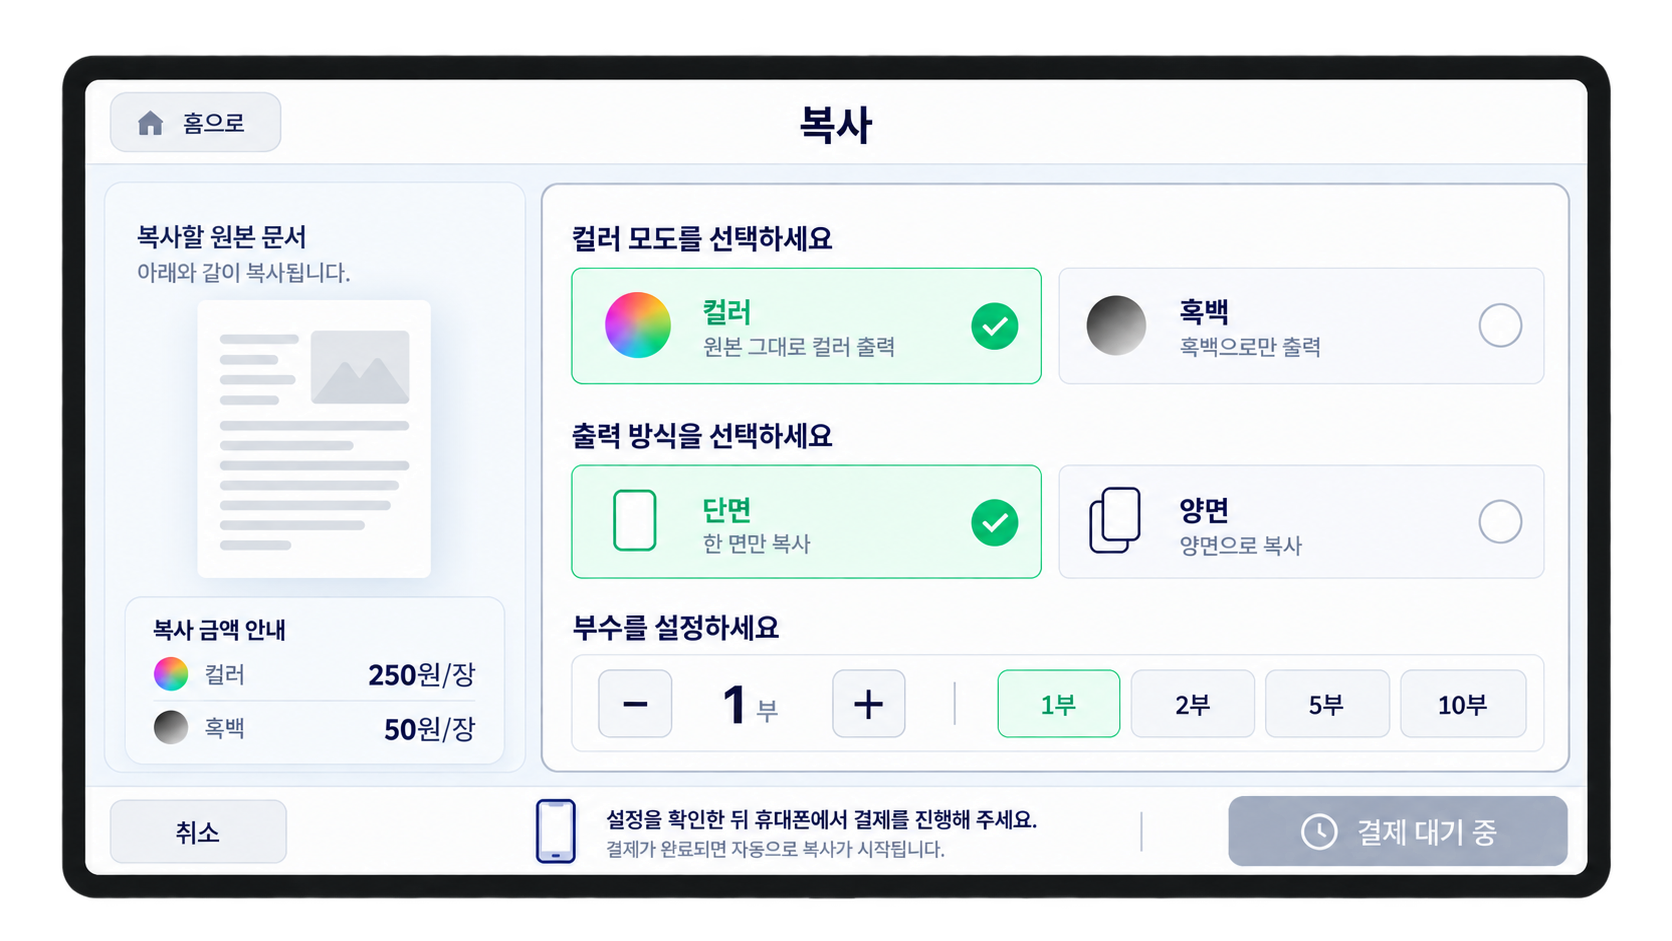
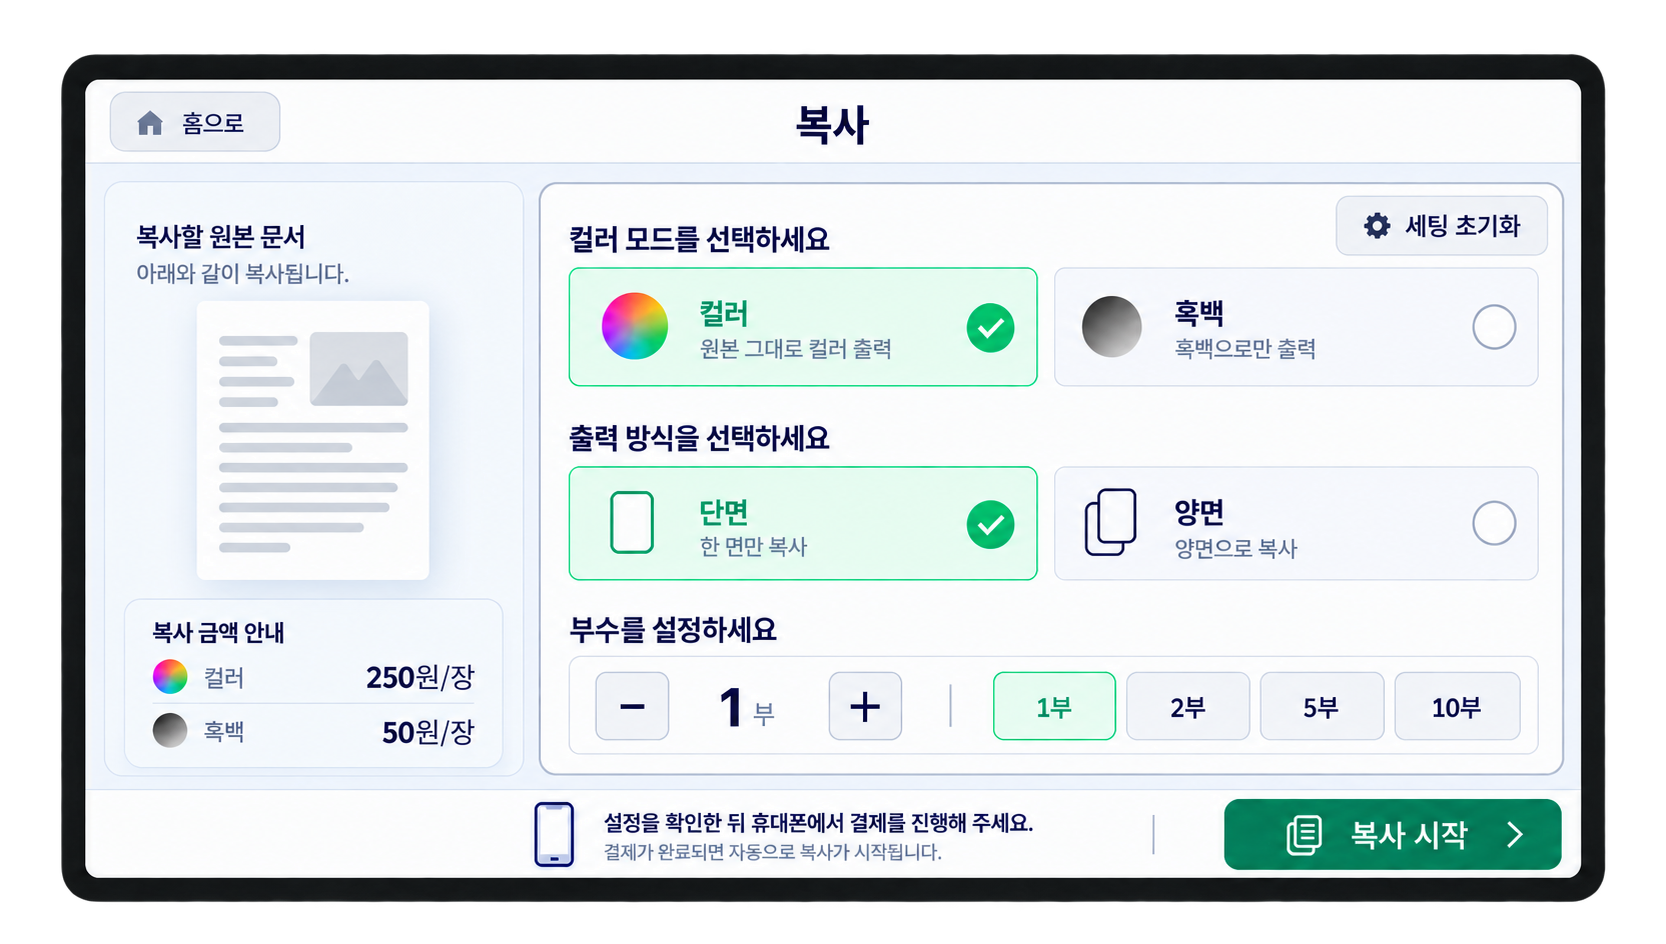
올려 준 새 시안 세 장으로 교체하고 개선안을 맞춤
device-copy2.png    → proposal/shots/device-copy.png
  device-home2.png    → proposal/shots/device-home.png
  print-checkout2.png → proposal/shots/print-checkout.png

시안이 바뀌면 표시 자리가 어긋난다. 세 그림에 격자를 씌워 좌표를 다시 재고,
그림과 더 이상 맞지 않는 문구를 고쳤다.

새로 적은 개선안

- 복합기 복사 설정에 `세팅 초기화 추가`. AS-IS 에는 설정을 한 번에 되돌리는
  방법이 없었고, 새 시안에는 설정 영역 오른쪽 위에 버튼이 생겼다
- 인쇄 파일 확인에 `파일별 설정 기능 추가`. 파일마다 설정 버튼이 생기고,
  따로 설정한 파일에 `개별 설정` 표시가 붙는다. 아래 설정은
  `전체 파일 기본 설정` 이 되어 개별 설정하지 않은 파일에만 적용된다

그림과 맞지 않게 된 문구

- 복합기 복사 설정 `모바일 결제 역할 분리` 에서 `결제 대기 중` 상태를 든
  대목을 뺐다. 새 시안에는 그 상태가 없고 하단 안내와 복사 시작 버튼이 있다
- 복합기 대기·연결 `연결 대상 명확화` 에서 머리말의
  `4번 복합기 · 사용 가능` 배지를 든 대목을 뺐다. 새 시안에는 배지가 없고,
  안내 문구가 연결될 기기를 적는다

다시 잰 자리

- 대기·연결: QR 카드 · 안내 문구 · 머리말과 서비스 카드
- 복사 설정: 설정 패널 · 요금 안내 · 세팅 초기화 · 하단 안내
- 파일 확인 / 인쇄 옵션 / 금액 확인: 기기 목업이 빠져 세 화면의 자리가
  모두 위로 올라갔다. 단계 표시 · 카드 묶음 · 금액 · 결제 버튼을 다시 쟀다
- 복합기 프로토타입 이동 자리도 다시 쟀다. 복사 설정에는 취소가 없어져
  빼고, 새로 생긴 복사 시작 버튼을 다음 화면으로 잇는 자리로 뒀다

Claude-Session: https://claude.ai/code/session_01T5u2QXejYEkjRZPDhEWwp2

diff --git a/public/assets/js/screens.js b/public/assets/js/screens.js
@@ -242,8 +242,8 @@ window.REVIEW = {
         steps: [
           { label: '파일 확인 및 결제',
             note: '시안에서 한 화면 안에 함께 놓인 것들입니다.',
-            items: ['선택 파일 확인', '파일 미리보기', '인쇄 옵션 확인·변경',
-                    '예상 결제 금액 확인', '결제 진입'],
+            items: ['선택 파일 확인', '파일 미리보기', '파일별 설정',
+                    '전체 파일 기본 설정 확인·변경', '예상 결제 금액 확인', '결제 진입'],
             img: 'proposal/shots/print-checkout.png', ref: [1] }
         ]
       },
@@ -324,7 +324,7 @@ window.REVIEW = {
             '설정·결제·출력 세 단계로 줄였습니다.',
           targets: {
             current:  [{ x: 0, y: 6.3, w: 100, h: 7.5 }],
-            proposal: [{ x: 20.5, y: 21.8, w: 57.5, h: 5.0 }]
+            proposal: [{ x: 20.5, y: 16.2, w: 58.5, h: 4.8 }]
           }
         },
         {
@@ -335,7 +335,7 @@ window.REVIEW = {
             '연속해서 확인할 수 있도록 통합했습니다.',
           targets: {
             current:  [{ x: 3.8, y: 14.5, w: 92.5, h: 20.5 }],
-            proposal: [{ x: 13.8, y: 28.0, w: 72.8, h: 57.0 }]
+            proposal: [{ x: 4.7, y: 21.8, w: 90.1, h: 67.9 }]
           }
         },
         {
@@ -345,9 +345,29 @@ window.REVIEW = {
             '선택한 옵션을 카드 안에서 바로 보여 줍니다.',
           targets: {
             current:  [{ x: 3.8, y: 25.1, w: 92.5, h: 9.5 }],
-            proposal: [{ x: 13.8, y: 28.0, w: 72.8, h: 31.3 }]
+            proposal: [{ x: 4.7, y: 21.8, w: 90.1, h: 42.4 }]
+          }
+        },
+        {
+          id: 'per-file', type: 'add', shortLabel: '기능 추가',
+          title: '파일별 설정 기능 추가',
+          description: 'AS-IS에서는 인쇄 옵션이 선택한 파일 전체에 한꺼번에 적용되어 ' +
+            '파일마다 다른 설정으로 인쇄할 수 없었습니다. TO-BE에서는 파일마다 `설정` 버튼을 두고, ' +
+            '따로 설정한 파일에는 `개별 설정` 표시를 붙였습니다. 아래 설정은 `전체 파일 기본 설정`이 ' +
+            '되어 개별 설정하지 않은 파일에만 적용되며, ' +
+            '`개별 설정 파일 전체 설정으로 초기화`로 되돌릴 수 있습니다.',
+          targets: {
+            proposal: [{ x: 81.5, y: 29.1, w: 11.5, h: 31.0 },
+                       { x: 46.5, y: 34.4, w: 9.8, h: 2.6 },
+                       { x: 41.5, y: 48.8, w: 9.8, h: 2.6 },
+                       { x: 56.0, y: 78.6, w: 37.0, h: 2.2 }]
           }
         }
+      ],
+      effects: [
+        '결제 전에 확인할 것을 한 화면에서 볼 수 있습니다',
+        '파일마다 다른 설정으로 인쇄할 수 있습니다',
+        '어떤 파일을 따로 설정했는지 목록에서 구분할 수 있습니다'
       ]
     },
     {
@@ -363,7 +383,7 @@ window.REVIEW = {
             '현재 설정을 보면서 바로 변경할 수 있도록 했습니다.',
           targets: {
             current:  [{ x: 0, y: 46.9, w: 100, h: 53.1 }],
-            proposal: [{ x: 13.8, y: 60.3, w: 72.8, h: 17.3 }]
+            proposal: [{ x: 4.7, y: 65.5, w: 90.1, h: 16.4 }]
           }
         },
         {
@@ -372,7 +392,7 @@ window.REVIEW = {
           description: 'AS-IS 시트에는 금액이 없었습니다. TO-BE는 옵션 바로 아래에 ' +
             '예상 결제 금액과 결제 버튼이 함께 있습니다.',
           targets: {
-            proposal: [{ x: 14.3, y: 78.0, w: 71.8, h: 6.5 }]
+            proposal: [{ x: 4.7, y: 83.9, w: 90.1, h: 5.8 }]
           }
         },
         {
@@ -381,7 +401,7 @@ window.REVIEW = {
           description: '여섯 단계를 모두 표시하던 것을 설정·결제·출력 세 단계로 줄였습니다.',
           targets: {
             current:  [{ x: 0, y: 6.3, w: 100, h: 7.5 }],
-            proposal: [{ x: 20.5, y: 21.8, w: 57.5, h: 5.0 }]
+            proposal: [{ x: 20.5, y: 16.2, w: 58.5, h: 4.8 }]
           }
         }
       ]
@@ -400,7 +420,7 @@ window.REVIEW = {
           targets: {
             current:  [{ x: 3.8, y: 15.6, w: 92.5, h: 8.0 },
                        { x: 3.8, y: 27.7, w: 92.5, h: 8.2 }],
-            proposal: [{ x: 14.3, y: 78.0, w: 71.8, h: 6.5 }]
+            proposal: [{ x: 4.7, y: 83.9, w: 90.1, h: 5.8 }]
           }
         },
         {
@@ -410,7 +430,7 @@ window.REVIEW = {
             '금액이 적힌 결제 버튼 하나로 정리했습니다.',
           targets: {
             current:  [{ x: 3.8, y: 84.5, w: 92.5, h: 14.6 }],
-            proposal: [{ x: 14.3, y: 84.8, w: 71.8, h: 4.2 }]
+            proposal: [{ x: 5.5, y: 90.0, w: 89.0, h: 3.1 }]
           }
         },
         {
@@ -419,7 +439,7 @@ window.REVIEW = {
           description: '여섯 단계를 모두 표시하던 것을 설정·결제·출력 세 단계로 줄였습니다.',
           targets: {
             current:  [{ x: 0, y: 6.4, w: 100, h: 7.4 }],
-            proposal: [{ x: 20.5, y: 21.8, w: 57.5, h: 5.0 }]
+            proposal: [{ x: 20.5, y: 16.2, w: 58.5, h: 4.8 }]
           }
         }
       ]
@@ -1012,20 +1032,18 @@ window.REVIEW = {
               { x: 4.0, y: 30.3, w: 57.9, h: 18.6 },
               { x: 70.0, y: 33.0, w: 22.5, h: 42.5 }
             ],
-            proposal: [{ x: 53.5, y: 24.5, w: 24.5, h: 51.5 }]
+            proposal: [{ x: 53.5, y: 24.0, w: 22.2, h: 55.0 }]
           }
         },
         {
           id: 'target', type: 'add', shortLabel: '정보 추가',
           title: '연결 대상 명확화',
           description: 'AS-IS에서는 QR을 스캔했을 때 어떤 기기와 연결되는지 화면에서 바로 확인하기 ' +
-            '어려웠습니다. TO-BE에서는 `4번 복합기`와 사용 가능 상태를 함께 표시하고, ' +
-            'QR 안내에도 연결될 기기를 명시했습니다.',
+            '어려웠습니다. TO-BE에서는 QR 안내 문구에 ' +
+            '`QR을 스캔하면 휴대폰이 4번 복합기와 연결됩니다`라고 적어, ' +
+            '스캔하기 전에 연결될 기기를 확인할 수 있도록 했습니다.',
           targets: {
-            proposal: [
-              { x: 62.3, y: 14.3, w: 17.5, h: 5.0 },
-              { x: 6.3, y: 46.3, w: 37.5, h: 4.5 }
-            ]
+            proposal: [{ x: 8.3, y: 48.0, w: 38.5, h: 4.6 }]
           }
         },
         {
@@ -1037,13 +1055,13 @@ window.REVIEW = {
           targets: {
             current:  [{ x: 4.0, y: 51.5, w: 57.9, h: 36.3 }],
             /* 새 시안에는 하단 3단계 띠가 없다. 순서가 머리말과 서비스 카드로 옮겨졌다 */
-            proposal: [{ x: 5.8, y: 24.5, w: 46.5, h: 51.5 }]
+            proposal: [{ x: 8.0, y: 23.6, w: 43.2, h: 56.0 }]
           }
         }
       ],
       effects: [
         '한 화면에서 스캔해야 할 QR을 구분하는 부담을 줄일 수 있습니다',
-        '연결할 복합기를 스캔 전에 확인할 수 있습니다',
+        '스캔하기 전에 어느 복합기와 연결되는지 확인할 수 있습니다',
         '모바일과 복합기에서 각각 해야 할 행동을 순서대로 이해하기 쉬워집니다'
       ]
     },
@@ -1058,7 +1076,7 @@ window.REVIEW = {
             '영역으로 구성해 현재 선택값을 한 화면에서 확인할 수 있도록 했습니다.',
           targets: {
             current:  [{ x: 29.8, y: 15.6, w: 67.5, h: 55.9 }],
-            proposal: [{ x: 31.3, y: 18.5, w: 64.5, h: 62.5 }]
+            proposal: [{ x: 32.0, y: 18.5, w: 63.0, h: 62.5 }]
           }
         },
         {
@@ -1069,26 +1087,36 @@ window.REVIEW = {
             '컬러·흑백·단면·양면·부수 등을 설정하는 과정에서 비용 기준도 함께 확인할 수 있도록 ' +
             '구성했습니다.',
           targets: {
-            proposal: [{ x: 7.5, y: 63.5, w: 23.0, h: 17.0 }]
+            proposal: [{ x: 7.5, y: 63.8, w: 23.0, h: 16.4 }]
+          }
+        },
+        {
+          id: 'reset', type: 'add', shortLabel: '기능 추가',
+          title: '세팅 초기화 추가',
+          description: 'AS-IS에서는 골라 둔 설정을 한 번에 되돌리는 방법이 없어 컬러·출력 방식·부수를 ' +
+            '하나씩 다시 눌러야 했습니다. TO-BE에서는 설정 영역 오른쪽 위에 `세팅 초기화`를 두어 ' +
+            '바꾼 설정을 기본값으로 한 번에 되돌릴 수 있도록 했습니다.',
+          targets: {
+            proposal: [{ x: 80.0, y: 20.4, w: 13.2, h: 6.2 }]
           }
         },
         {
           id: 'pay-role', type: 'restructure', shortLabel: '분리',
           title: '모바일 결제 역할 분리',
           description: 'AS-IS에서는 복합기 화면에서 `결제하기`와 `복사 시작`이 함께 제공되어 ' +
-            '결제와 실행의 관계가 분명하지 않았습니다. TO-BE에서는 설정을 마친 뒤 휴대폰에서 ' +
-            '결제하도록 안내하고, 결제가 완료되기 전에는 `결제 대기 중` 상태를 표시하도록 ' +
-            '변경했습니다.',
+            '결제와 실행의 관계가 분명하지 않았습니다. TO-BE에서는 복합기에서 `결제하기`를 없애고, ' +
+            '`설정을 확인한 뒤 휴대폰에서 결제를 진행해 주세요. 결제가 완료되면 자동으로 복사가 ' +
+            '시작됩니다`라는 안내를 두어 결제는 휴대폰이 맡는다는 것을 적었습니다.',
           targets: {
             current:  [{ x: 69.3, y: 87.8, w: 26.8, h: 8.4 }],
-            proposal: [{ x: 30.8, y: 83.0, w: 64.0, h: 9.0 }]
+            proposal: [{ x: 31.5, y: 84.3, w: 37.5, h: 7.8 }]
           }
         }
       ],
       effects: [
         '현재 복사 설정과 예상 비용을 함께 확인할 수 있습니다',
-        '결제를 모바일에서 진행한다는 역할을 명확하게 구분할 수 있습니다',
-        '결제 전 복사가 실행되는 것으로 오해하는 경우를 줄일 수 있습니다'
+        '바꾼 설정을 한 번에 기본값으로 되돌릴 수 있습니다',
+        '결제를 모바일에서 진행한다는 역할을 명확하게 구분할 수 있습니다'
       ]
     },
     {
@@ -1379,9 +1407,9 @@ window.REVIEW = {
       hint: '복합기 화면은 휴대폰에서 서비스를 고른 뒤 이어지는 화면입니다. ' +
         '여기서는 이용 가능한 서비스에서 각 화면으로 옮겨 가며 볼 수 있게 했습니다.',
       hits: [
-        { l: 17.8, t: 59.3, w: 11.0, h: 16.5, to: 'device-copy-start', name: '복사', next: true },
-        { l: 29.3, t: 59.3, w: 11.0, h: 16.5, to: 'device-scan',       name: '스캔' },
-        { l: 40.6, t: 59.3, w: 11.0, h: 16.5, to: 'device-fax',        name: '팩스' }
+        { l: 19.6, t: 64.2, w: 10.0, h: 15.4, to: 'device-copy-start', name: '복사', next: true },
+        { l: 30.4, t: 64.2, w: 10.0, h: 15.4, to: 'device-scan',       name: '스캔' },
+        { l: 41.2, t: 64.2, w: 10.0, h: 15.4, to: 'device-fax',        name: '팩스' }
       ]
     },
     'device-copy-start': {
@@ -1391,13 +1419,10 @@ window.REVIEW = {
       ]
     },
     'device-copy': {
-      /* 결제 대기 중은 눌리지 않는 상태 표시라 이동 자리를 두지 않는다.
-       * 대신 화면이 적어 둔 대로, 결제가 확인되면 복사가 끝나 완료 팝업으로 넘어간다 */
+      /* 세팅 초기화는 화면을 옮기지 않고 설정만 되돌리는 자리라 뺐다 */
       hits: [
-        { l: 6.6,  t: 10.4, w: 10.4, h: 5.2, to: 'device-home',      name: '홈으로' },
-        { l: 6.6,  t: 84.6, w: 10.6, h: 7.0, to: 'device-home',      name: '취소' },
-        { l: 30.5, t: 83.6, w: 38.0, h: 9.0, to: 'device-copy-done',
-          name: '결제가 확인되면 복사가 시작됩니다', next: true }
+        { l: 6.6,  t: 10.3, w: 10.4, h: 5.2, to: 'device-home',      name: '홈으로' },
+        { l: 73.5, t: 84.2, w: 20.4, h: 8.0, to: 'device-copy-done', name: '복사 시작', next: true }
       ]
     },
     'device-copy-done': {
